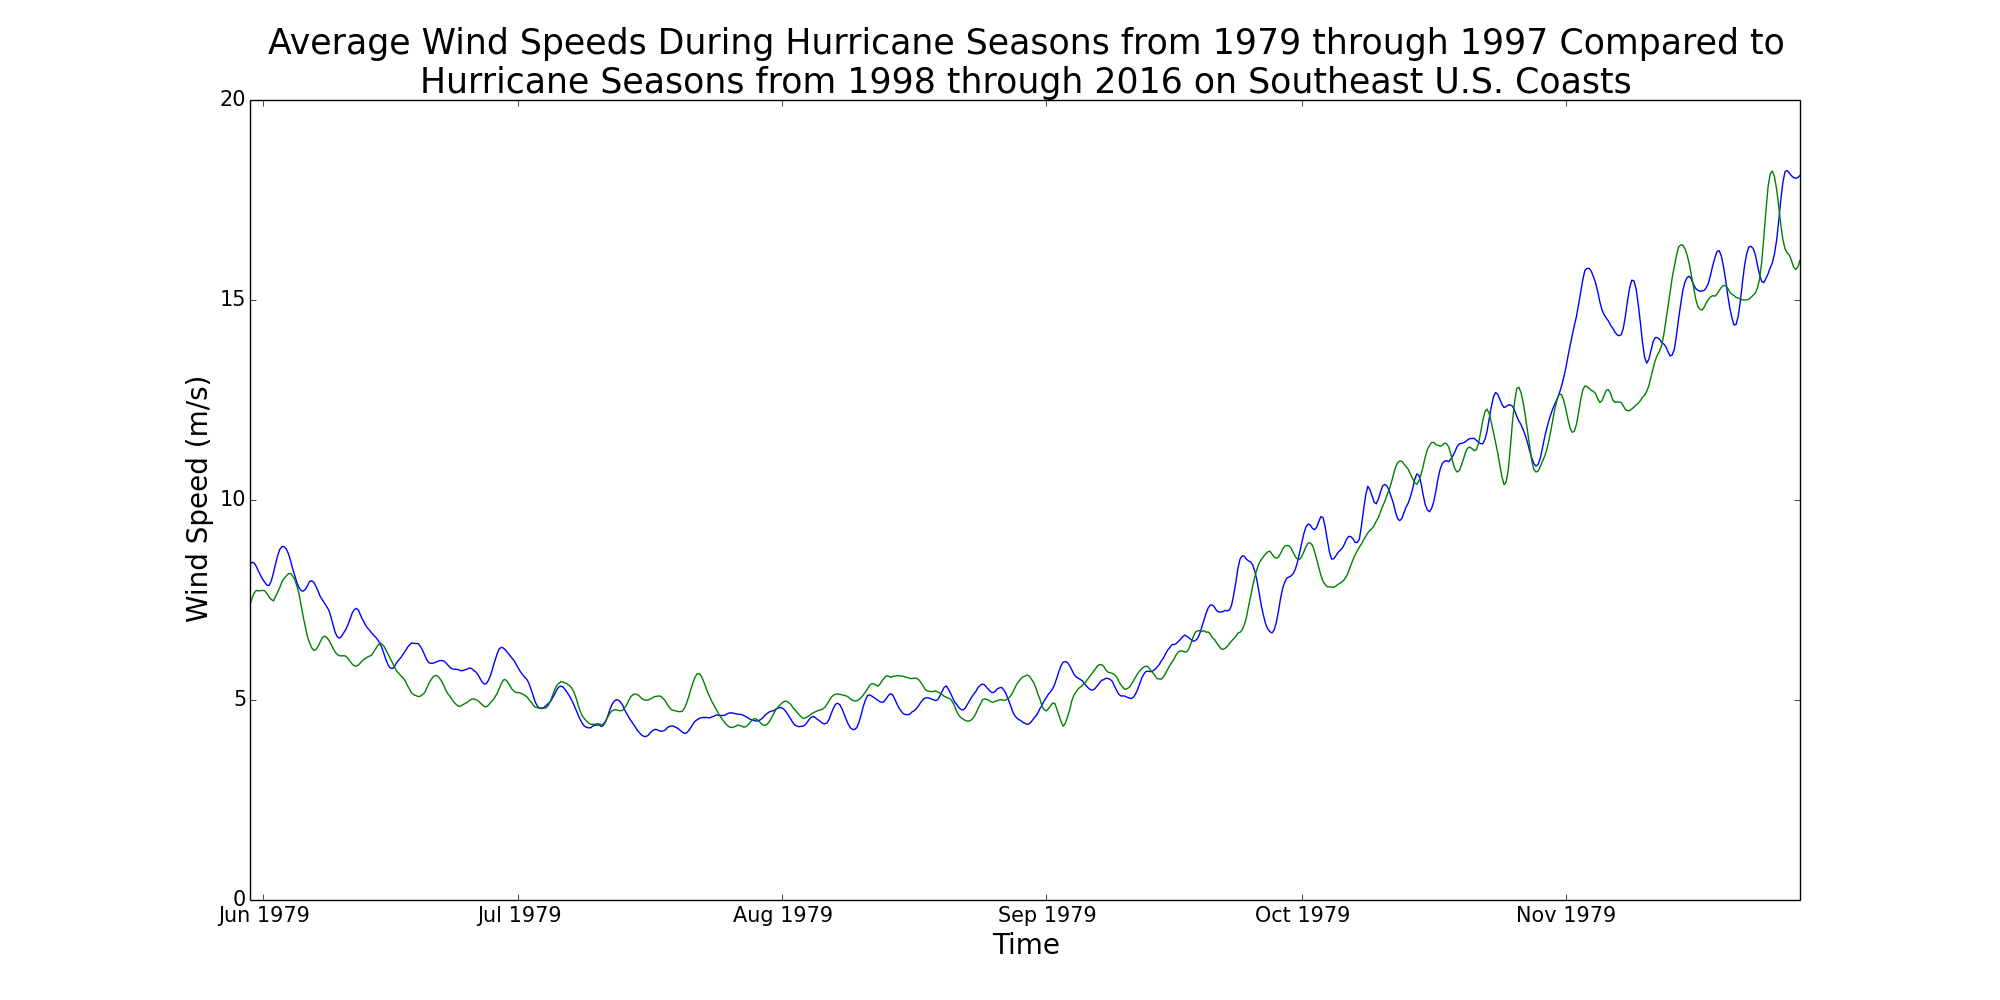
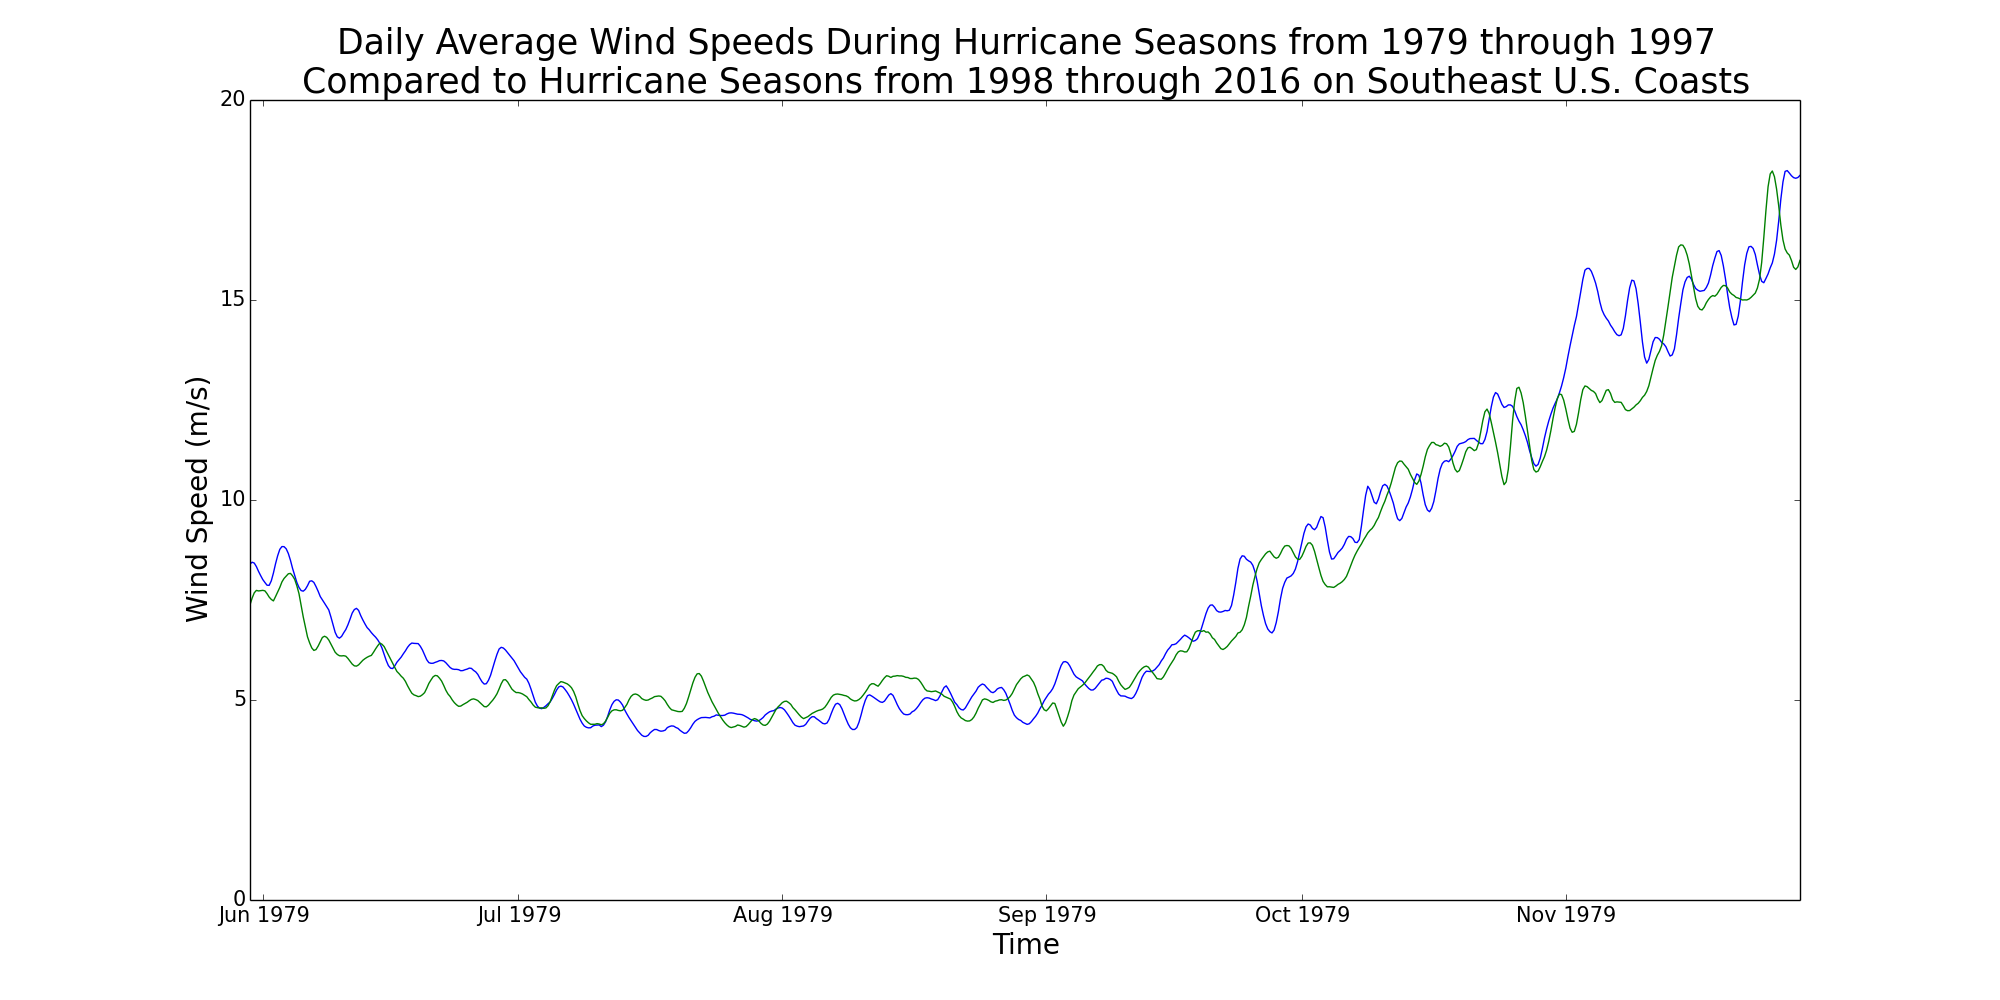
Added some average wind speed difference time series plots

Changed region(s): [[0.124, 0.031, 0.899, 0.093]]

diff --git a/DLM_stats.py b/DLM_stats.py
@@ -398,19 +398,19 @@ def averageWindsEachTime(wind_speeds, dates_and_times, time_interval):
 
         i = i + 1
 
-    new_dates_and_times = dates_and_times
+    #new_dates_and_times = dates_and_times
     # Optionally, also perform a low pass filter averaging method to smoothen the curve
-    #temp_wind_speeds = avg_wind_speeds
-    #avg_wind_speeds = []
-    #i = time_interval / 2
-    #while i < (len(temp_wind_speeds) - (time_interval / 2) + 1):
+    temp_wind_speeds = avg_wind_speeds
+    avg_wind_speeds = []
+    i = time_interval / 2
+    while i < (len(temp_wind_speeds) - (time_interval / 2) + 1):
         # Update times
-    #    new_dates_and_times.append(dates_and_times[i])
+        new_dates_and_times.append(dates_and_times[i])
 
         # Average wind speeds
-    #    avg_wind_speeds.append(np.sum(temp_wind_speeds[(i - (time_interval / 2)):(i + (time_interval / 2))])/time_interval)
+        avg_wind_speeds.append(np.sum(temp_wind_speeds[(i - (time_interval / 2)):(i + (time_interval / 2))])/time_interval)
 
-    #    i = i + 1
+        i = i + 1
 
     return avg_wind_speeds, new_dates_and_times
 
@@ -706,6 +706,78 @@ wind_speeds = removeTCWinds(wind_speeds, dates_and_times, locs, times_to_remove,
 ##                         All Locations, Whole Time Period                         ##
 ######################################################################################
 
+
+
+# Create wind speed arrays that will only contain data for the desired period of time
+wind_speeds_79_97 = getWindSpeedInterval(wind_speeds, 0, 13908)
+wind_speeds_98_16 = getWindSpeedInterval(wind_speeds, 13908, 27816)
+
+# Get updated time intervals as well
+dates_and_times_79_97 = dates_and_times[0:13908]
+dates_and_times_98_16 = dates_and_times[13908:27816]
+
+# Average the wind speed at each time
+avg_wind_speeds_79_97, dates_and_times_1y = averageWindsEachTime(wind_speeds_79_97, dates_and_times_79_97, 48)
+avg_wind_speeds_98_16, dates_and_times_1y = averageWindsEachTime(wind_speeds_98_16, dates_and_times_79_97, 48)
+
+print(len(dates_and_times_1y))
+print(len(avg_wind_speeds_79_97))
+
+# Plot the averaged wind speeds
+plt.figure(1, figsize = (20,10))
+plt.rc('axes', titlesize = 25)
+plt.rc('axes', labelsize = 20)
+plt.rc('xtick', labelsize = 15)
+plt.rc('ytick', labelsize = 15)
+plt.plot(dates_and_times_1y, avg_wind_speeds_79_97)
+plt.plot(dates_and_times_1y, avg_wind_speeds_98_16)
+plt.ylim(ymin = 0)
+plt.ylabel('Wind Speed (m/s)')
+plt.xlabel('Time')
+plt.title('Twelve Day Average Wind Speeds During Hurricane Seasons from 1979 through 1997\n' +
+          'Compared to Hurricane Seasons from 1998 through 2016 on ' + location_names[region][1])
+plt.savefig('Figures/Time_Series/Yearly/Filtered_' + location_names[region][0]  + '_Time_Series_12d_Avg_Comparison.png')
+plt.show()
+
+# Determine the difference in the two averaged time series arrays
+i = 0
+avg_wind_speeds_diff = [0] * len(avg_wind_speeds_79_97)
+while i < len(avg_wind_speeds_79_97):
+    avg_wind_speeds_diff[i] = avg_wind_speeds_98_16[i] - avg_wind_speeds_79_97[i]
+    i = i + 1
+
+# Plot the difference of the averaged wind speeds
+plt.figure(1, figsize = (20,10))
+plt.rc('axes', titlesize = 25)
+plt.rc('axes', labelsize = 20)
+plt.rc('xtick', labelsize = 15)
+plt.rc('ytick', labelsize = 15)
+plt.plot(dates_and_times_1y, avg_wind_speeds_diff)
+plt.plot(dates_and_times_1y, [0] * len(dates_and_times_1y))
+plt.ylabel('Wind Speed (m/s)')
+plt.xlabel('Time')
+plt.title('Difference Between Twelve Day Average Wind Speeds During Hurricane Seasons from 1979 through 1997\n' +
+          'and Hurricane Seasons from 1998 through 2016 on ' + location_names[region][1])
+plt.savefig('Figures/Time_Series/Yearly/Filtered_' + location_names[region][0]  + '_Time_Series_12d_Avg_Comparison_Diff.png')
+plt.show()
+
+
+
+
+
+
+
+
+
+
+
+
+
+
+
+
+
+
 # Analyze all data together, regardless of time or location
 
 # Create an array to store how frequently a wind speed value was recorded (at all
@@ -958,8 +1030,8 @@ norm_wind_speed_freq_79_97 = normalizeWindSpeeds(wind_speed_freq_79_97)
 norm_wind_speed_freq_98_16 = normalizeWindSpeeds(wind_speed_freq_98_16)
 
 # Average the wind speed at each time
-avg_wind_speeds_79_97, dates_and_times_1y = averageWindsEachTime(wind_speeds_79_97, dates_and_times_79_97, 12)
-avg_wind_speeds_98_16, dates_and_times_1y = averageWindsEachTime(wind_speeds_98_16, dates_and_times_79_97, 12)
+avg_wind_speeds_79_97, dates_and_times_1y = averageWindsEachTime(wind_speeds_79_97, dates_and_times_79_97, 4)
+avg_wind_speeds_98_16, dates_and_times_1y = averageWindsEachTime(wind_speeds_98_16, dates_and_times_79_97, 4)
 
 # Plot the averaged wind speeds
 plt.figure(1, figsize = (20,10))
@@ -972,9 +1044,24 @@ plt.plot(dates_and_times_1y[0:732], avg_wind_speeds_98_16)
 plt.ylim(ymin = 0)
 plt.ylabel('Wind Speed (m/s)')
 plt.xlabel('Time')
-plt.title('Average Wind Speeds During Hurricane Seasons from 1979 through 1997 ' +
-          'Compared to\nHurricane Seasons from 1998 through 2016 on ' + location_names[region][1])
-plt.savefig('Figures/Time_Series/Yearly/Filtered_' + location_names[region][0]  + '_Time_Series_Avg_Comparison.png')
+plt.title('Daily Average Wind Speeds During Hurricane Seasons from 1979 through 1997\n' +
+          'Compared to Hurricane Seasons from 1998 through 2016 on ' + location_names[region][1])
+plt.savefig('Figures/Time_Series/Yearly/Filtered_' + location_names[region][0]  + '_Time_Series_1d_Avg_Comparison.png')
+plt.show()
+
+# Plot the difference of the averaged wind speeds
+plt.figure(1, figsize = (20,10))
+plt.rc('axes', titlesize = 25)
+plt.rc('axes', labelsize = 20)
+plt.rc('xtick', labelsize = 15)
+plt.rc('ytick', labelsize = 15)
+plt.plot(dates_and_times_1y[0:732], avg_wind_speeds_98_16 - avg_wind_speeds_79_97)
+plt.ylim(ymin = 0)
+plt.ylabel('Wind Speed (m/s)')
+plt.xlabel('Time')
+plt.title('Difference Between Daily Average Wind Speeds During Hurricane Seasons from 1979 through 1997\n' +
+          'and Hurricane Seasons from 1998 through 2016 on ' + location_names[region][1])
+plt.savefig('Figures/Time_Series/Yearly/Filtered_' + location_names[region][0]  + '_Time_Series_1d_Avg_Comparison_Diff.png')
 plt.show()
 
 # Generate histograms to show the frequency distribution for the wind speeds at all
